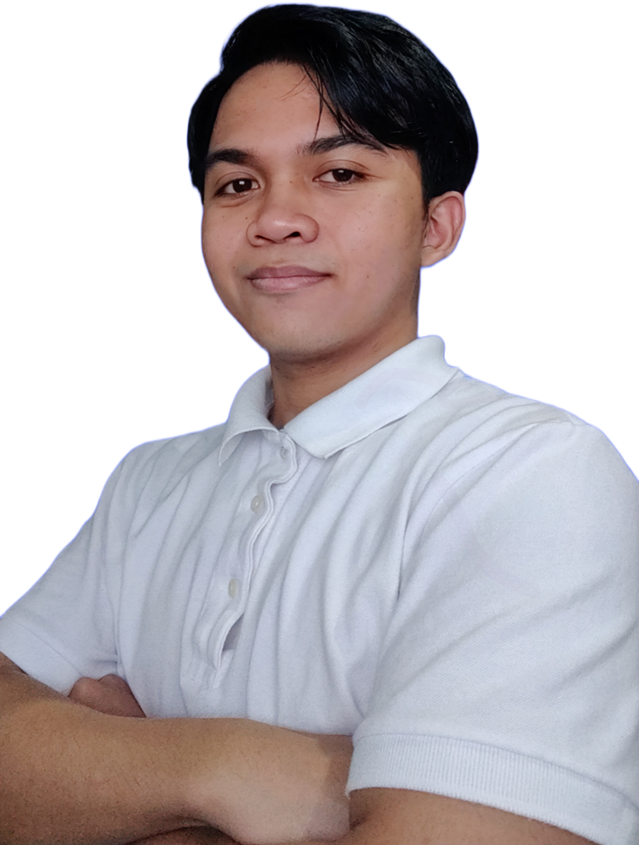
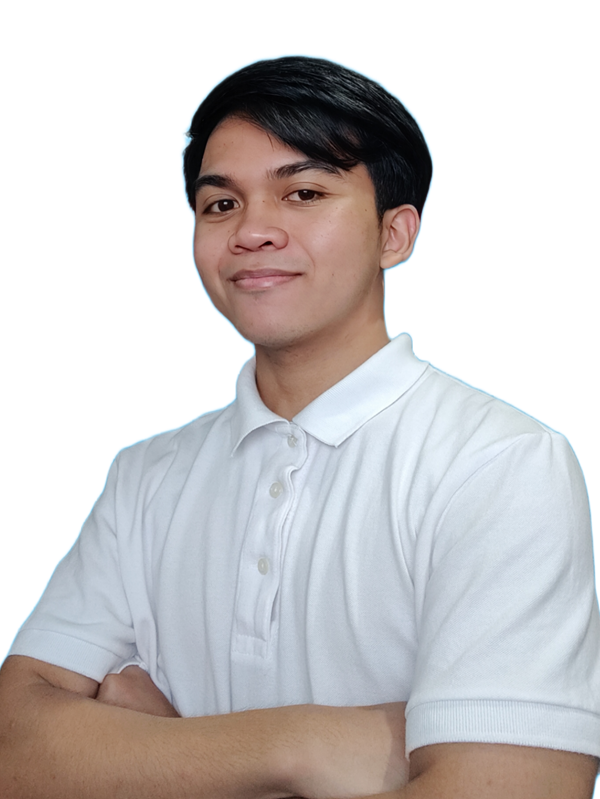
update profile pic

Changed region(s): [[0.0, 0.0, 1.0, 1.0], [0.84, 0.7209, 0.87, 0.7509]]

diff --git a/index.html b/index.html
@@ -52,17 +52,12 @@
 								<img class="profile" src="images/Profile Pic.png" alt=""/>
 								<style>
 									.profile {
-										/* width: 50%; 
-										height: 100%;
-										margin-left: 5%;
-										margin-top: 5%;
-										margin-bottom: 5%; */
 
-										max-width: 100%; /* Set the maximum width of the image to 100% of the divider */
-										height: auto; /* Let the height adjust automatically based on the width */
-										display: block; /* Ensure that the image is treated as a block element */
-										margin: 0 auto; /* Center the image horizontally */
-										padding:5%;
+										max-width: 100%; 
+										height: auto; 
+										display: block; 
+										margin: 0 auto;
+										padding:8%;
 									}
 									</style>
 							</div>
